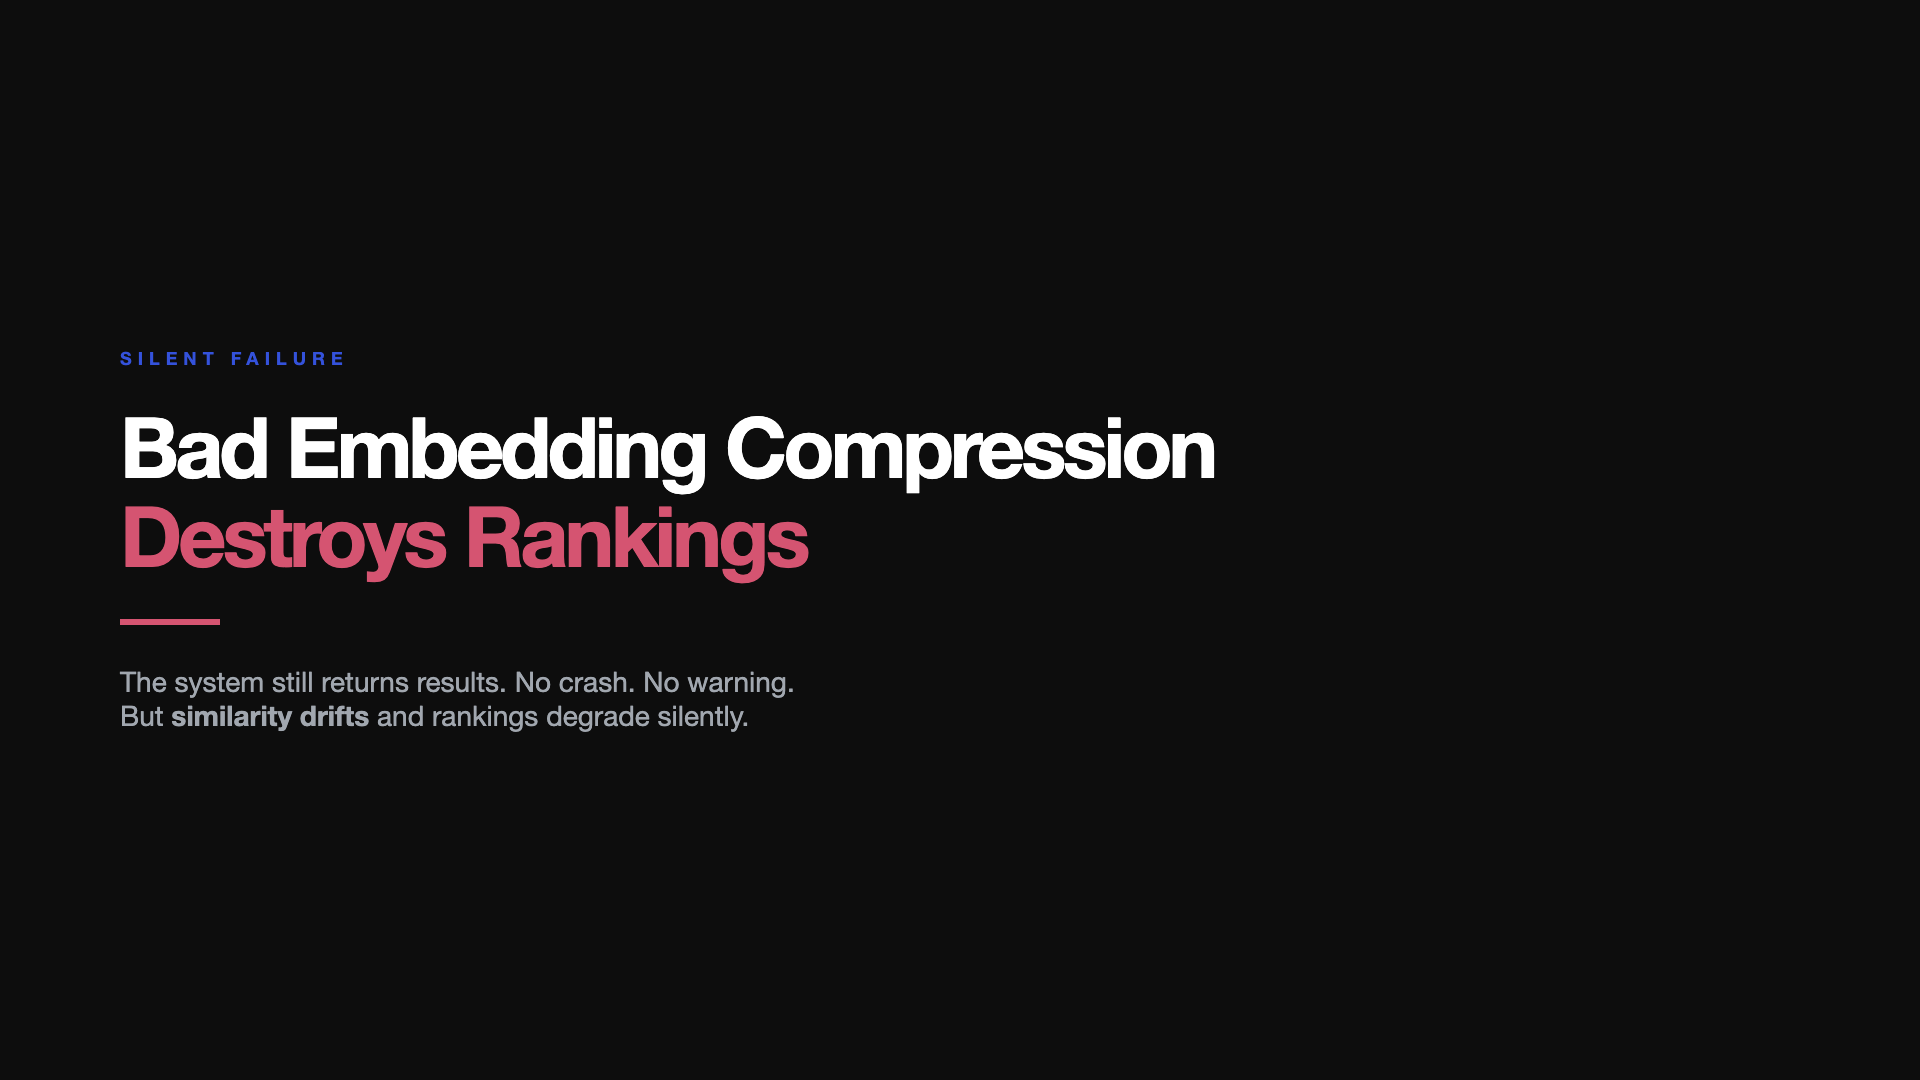
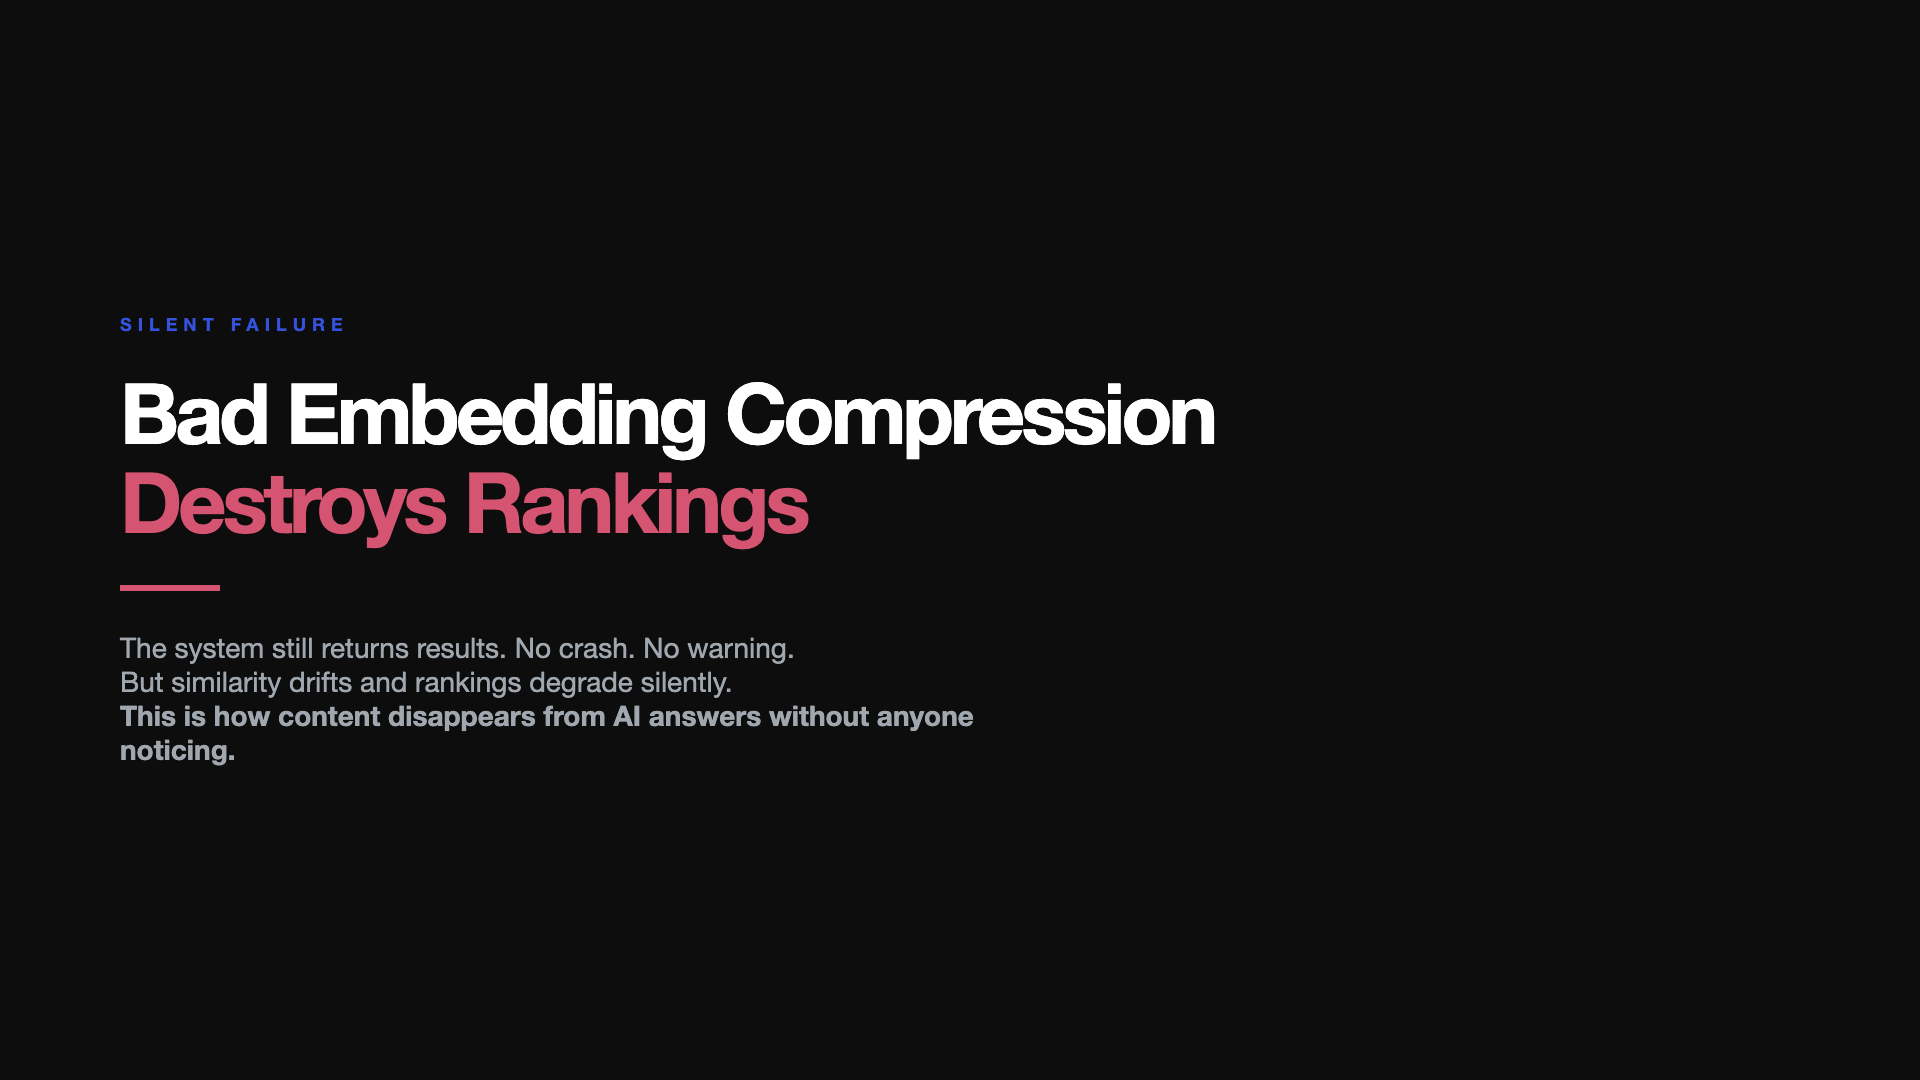
copy: sharpen TurboQuant slides for non-specialist audience

Changed region(s): [[0.0625, 0.275, 0.6562, 0.7028]]

diff --git a/generate_slides_v2_bold.py b/generate_slides_v2_bold.py
@@ -221,7 +221,7 @@ def slide_11():
     <div style="font-size:28px;color:{T['gray']};margin-top:40px;max-width:800px;">
       Bigger context requires compression.<br>
       But poor compression silently breaks retrieval.<br>
-      <span style="color:{T['berry']};">Scale without geometry is fragile.</span></div>""", ca)
+      <span style="color:{T['berry']};">Your content is still there. The system just can't find it anymore.</span></div>""", ca)
 
 def slide_12():
     return dark(f"""
@@ -239,16 +239,18 @@ def slide_13():
     <div class="bar" style="width:100px;background:{T['berry']};"></div>
     <div style="font-size:28px;color:{T['gray']};margin-top:40px;max-width:900px;">
       The system still returns results. No crash. No warning.<br>
-      But <b>similarity drifts</b> and rankings degrade silently.</div>""")
+      But similarity drifts and rankings degrade silently.<br>
+      <b>This is how content disappears from AI answers without anyone noticing.</b></div>""")
 
 def slide_14():
     return dark(f"""
-    <div class="section">The Solution</div>
+    <div class="section">The Fix</div>
     <div class="h" style="font-size:120px;">Zero-Bias<br>Correction</div>
     <div class="bar" style="width:100px;background:{T['leaf']};"></div>
     <div style="font-size:28px;color:{T['gray']};margin-top:40px;max-width:900px;">
-      TurboQuant corrects the directional bias of quantization.<br>
-      <b>Trustworthy similarity</b> even under aggressive compression.</div>""")
+      Compression bends the ruler that measures relevance.<br>
+      TurboQuant straightens it back.<br>
+      <b>Same speed gains, trustworthy rankings.</b></div>""")
 
 def slide_15():
     return light(f"""
@@ -257,13 +259,13 @@ def slide_15():
     <div style="display:flex;gap:32px;">
       <div style="flex:1;padding:32px;background:{T['gray_light']};">
         <div style="font-size:18px;font-weight:900;color:{T['sky']};">UNBIASED</div>
-        <div style="font-size:14px;margin-top:8px;">Geometric accuracy</div></div>
+        <div style="font-size:14px;margin-top:8px;">Rankings stay accurate</div></div>
       <div style="flex:1;padding:32px;background:{T['gray_light']};">
         <div style="font-size:18px;font-weight:900;color:{T['sky']};">DEPLOYABLE</div>
-        <div style="font-size:14px;margin-top:8px;">GPU-native performance</div></div>
+        <div style="font-size:14px;margin-top:8px;">Runs on production GPUs</div></div>
       <div style="flex:1;padding:32px;background:{T['gray_light']};">
         <div style="font-size:18px;font-weight:900;color:{T['sky']};">OBLIVIOUS</div>
-        <div style="font-size:14px;margin-top:8px;">No data-specific tuning</div></div>
+        <div style="font-size:14px;margin-top:8px;">Works without retraining</div></div>
     </div>
     <div style="font-size:28px;font-weight:900;margin-top:48px;">It’s about combining speed with reliability.</div>""")
 
